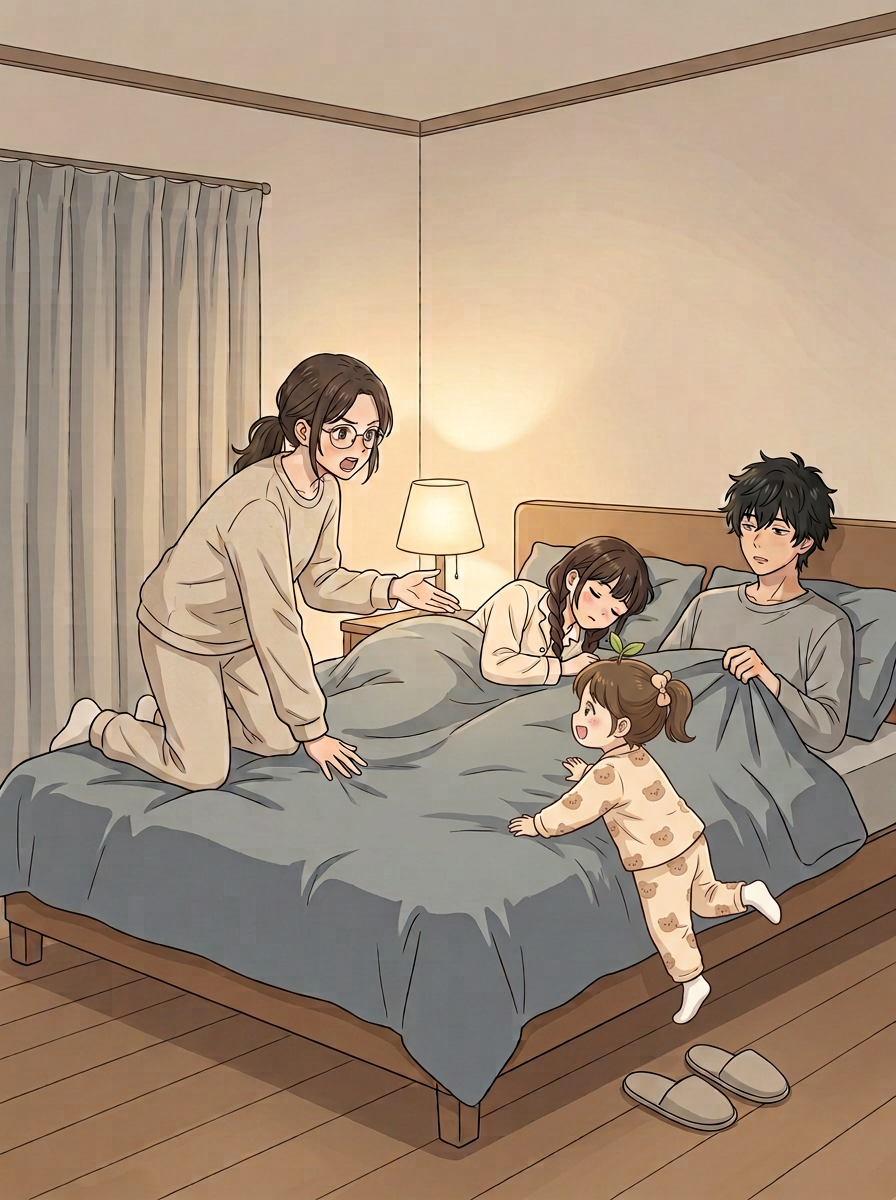
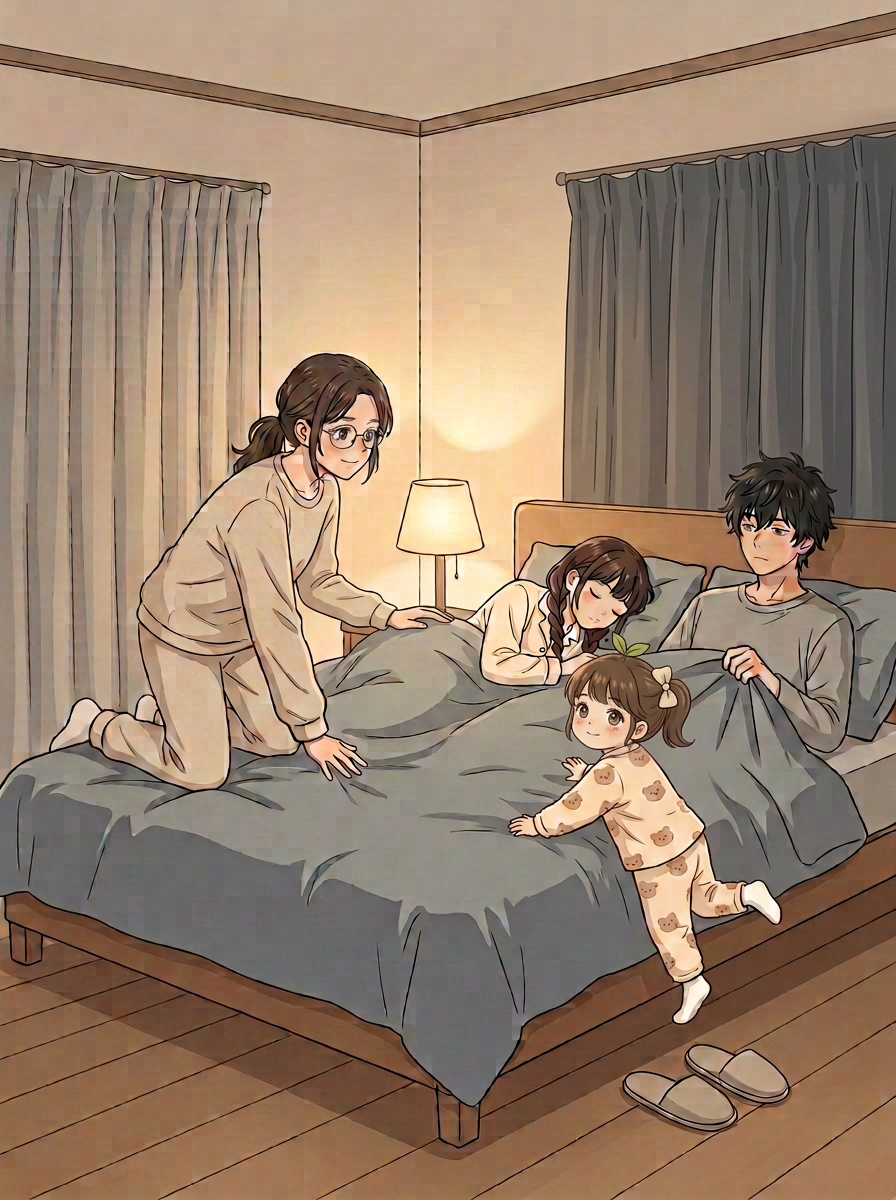
返修两张源画：第四话p9床被去腿形轮廓、第三话p11小满脸按人设重画且姐姐温和

diff --git a/scripts/verify_chapter04_pdf.py b/scripts/verify_chapter04_pdf.py
@@ -11,6 +11,7 @@
 用法：.venv/bin/python scripts/verify_chapter04_pdf.py
 """
 from pathlib import Path
+import tempfile
 import zipfile
 
 import numpy as np
@@ -68,7 +69,9 @@ def check_preview():
             filters.add(doc.xref_get_key(info[0], 'Filter')[1])
     assert filters == {'/DCTDecode'}, f'轻量预览过滤器异常: {filters}'
     pix = doc[4].get_pixmap(dpi=150, alpha=False)
-    Image.frombytes('RGB', (pix.width, pix.height), pix.samples).save('/tmp/rev7/ch4-light-preview-page04.png')
+    preview_dir = Path(tempfile.gettempdir()) / 'shi-pin-zhizuo-preview'
+    preview_dir.mkdir(parents=True, exist_ok=True)
+    Image.frombytes('RGB', (pix.width, pix.height), pix.samples).save(preview_dir / 'ch4-light-preview-page04.png')
     doc.close()
     print(f'[OK] {PREVIEW.name}: {N}页, 691.2x921.6pt, DCTDecode(JPEG q=88), '
           f'{PREVIEW.stat().st_size/1024/1024:.2f}MB, 已导出第4页供放大目检')

diff --git a/scripts/verify_chapter03_pdf.py b/scripts/verify_chapter03_pdf.py
@@ -10,6 +10,7 @@
 """
 from pathlib import Path
 import hashlib
+import tempfile
 import zipfile
 
 import numpy as np
@@ -69,7 +70,9 @@ def check_preview():
     assert filters == {'/DCTDecode'}, f'轻量预览过滤器异常: {filters}'
     # 渲染回读一页供人眼放大复检（JPEG 有损，只查可读性与页数，不查像素相等）
     pix = doc[4].get_pixmap(dpi=150, alpha=False)
-    Image.frombytes('RGB', (pix.width, pix.height), pix.samples).save('/tmp/rev7/light-preview-page04.png')
+    preview_dir = Path(tempfile.gettempdir()) / 'shi-pin-zhizuo-preview'
+    preview_dir.mkdir(parents=True, exist_ok=True)
+    Image.frombytes('RGB', (pix.width, pix.height), pix.samples).save(preview_dir / 'light-preview-page04.png')
     doc.close()
     print(f'[OK] {PREVIEW.name}: 12页, 691.2x921.6pt, DCTDecode(JPEG q=88), '
           f'{PREVIEW.stat().st_size/1024/1024:.2f}MB, 已导出第4页供放大目检')

diff --git a/docs/错误复盘与优化方案长期记录.md b/docs/错误复盘与优化方案长期记录.md
@@ -776,3 +776,15 @@ PDF 各 12 页、150dpi `max_pixel_diff=0`；轻量 2.11MB；ZIP 12 张字节等
 - 未做：没有重绘、没有改台词、没有重跑 build／export／verify／PDF／ZIP。
   用户本轮要求「先告诉我你能看到吗」＋「加进错误集」；返修范围
   （第四话 p9 整张重生、第三话 p11 是否重绘并影响已定稿 v7.3）须用户裁定后再动。
+
+
+### 返修闭环（2026-11-09，用户裁定后执行）
+
+- 用户裁定：「重绘第四话最后一页的床被」「让第三话最后一页的小满的脸符合人设图」「姐姐的脸应该更温和一点，不应该是斥责的表情」。
+- 两页均**整张带锚点重生成**，没有局部涂改／色块覆盖。第四话 p9 传 `shot-01.png` 画风锚点、p7/p8 睡前页、小满官方人设、重绘后的 `shot-11.png`；prompt 第一批就写死「被子是单一连续平整体积、禁任何腿／膝／脚状闭合阴影、禁独立肢体状鼓包」。第三话 p11 传 `shot-01.png`＋小满／姐姐官方人设与脸部放大＋姐姐家居服＋p10，用已验收版作构图锁，禁止把旧页的敷衍脸与斥责表情带进新图。
+- 第三话 p11 共三次整张重生：v1 修好姐姐但小满仍是单眼方嘴 → 弃；v2 小满改成 3/4 正脸但整体构图漂移（人物左移、留白翻倍，会让「小叔，我也要！」的长尾指错人）→ 弃；v3 以 v1 构图为锁、只重画两张脸，最终采用。**不能在「脸修好了」时忽略气泡归属与构图连续性**。
+- 实图放大复核：第四话 p9 按用户截图同一区域并排，旧图那条闭合「腿形」弧影消失，下半部只剩少量开放式宽褶皱；p6/p7/p8/p9 四页被窝并排回归，无其他腿形；第三话 p11 小满为 3/4 正脸、双眼大圆眼＋细弯眉＋小抿嘴，姐姐圆框眼镜＋平缓眉＋闭嘴微笑，无张口斥责；p9/p10/p11 末三页并排无其他敷衍脸；两页手／袖管各 2、拖鞋一双、无假字，页码与三处气泡位置未动。
+- 画风：第三话新 p11 的画布脚本 stroke 代理 WARN（1.76x）与锚点并排放大后判定为夜景深灰大面积被子的明暗所致，线宽／上色／脸型／色调与锚点连续，属镜头语言差异不是系统漂移；不刷绿也不盲信数值。
+- 只改两页：build 两话各一次（第三话 16.207s、第四话 18.895s，各只新编码 2 页）、export 两话各一次（1.941s／1.603s）、verify 两话各一次（6.227s／5.143s，四项全过）、气泡几何 PASS 71、画布预筛四目录 0 FAIL（既有 canvas-review 登记降为 note）、py_compile OK、两话轻量预览第4页 JPEG q=88 回读放大可读。
+- 工程修复：`verify_chapter03_pdf.py`／`verify_chapter04_pdf.py` 原把回读图硬写 `/tmp/rev7/`（会话遗留目录，环境重置后不存在），导致第三话 verify 首次中断；改为 `tempfile.gettempdir()` 下自建目录后重跑通过。**校验脚本不得依赖会话临时目录**。另：误把 `--help` 当参数传给无 argparse 的 `audit_page_canvas.py` 会跑默认目录并产出无效结论，本轮该次输出不计入验收，正确目录另跑一次并一次收全 stdout。
+- 已知非缺陷变化：第三话 p11 新图右上多了一片与左侧呼应的窗帘，右上气泡仍白底清晰、不压脸；床、四人位置、拖鞋、三句台词与页码 11 / 11 均未动。

diff --git a/docs/第三话_正式分镜与台词.md b/docs/第三话_正式分镜与台词.md
@@ -111,6 +111,7 @@
 ## 制作与验收状态（2026-11-08 第三次返修 v7）
 
 - 构建唯一来源：`art/chapter-03-v7/`（封面＋shot-01～shot-11）。v7.0 生图6张：shot-08／04／07／05／06／10；其余沿用已验收原画。**v7.1 追加**：shot-08 整张弃用重新生成（多余袖管），shot-07／10 重新生图改为哥哥右手提袋，shot-05／06 保持落地。详见 `docs/第三话_v7.1_纠错与新增铁律.md`。
+- **2026-11-09 追加**：`shot-11.png` 整张重生为 v7.3 结尾页返修版（小满脸按 `art/character-v3/niece.png` 官方人设重画、姐姐改温和微笑；构图、三句台词、气泡与页码不变），详见长期记录第廿三节。
 - 阅读版1440×1920、竖屏版1440×2146、两份**12页**无损PDF已重建；另新增 `第三话_逐页看图.md`（GitHub网页直接看12张图）、`第三话_12页PNG图片版.zip`（一次下载解压即得12张PNG）、`第三话_轻量在线预览.pdf`（12页720×960、JPEG q=88、2.15MB，明确非定稿）。两份约37MB无损PDF保留作印刷／归档备份。
 - 气泡几何审计 **PASS 55**；画面级预筛 `audit_page_canvas.py` 对原画与成品均 **0 FAIL / 12**，v7 两处场景结构误报已独立放大复核并登记 `canvas-review.json`（重绘后的 shot-10 不再触发旧误报，故台账只保留真实存在的2条）。
 - `scripts/verify_chapter03_pdf.py`：两份PDF各12页、逐页150dpi对PNG **max_pixel_diff=0**、全 `/FlateDecode`；轻量预览12页 `/DCTDecode`、2.15MB；ZIP 12张逐张字节等同母版；看图页12个相对链接全部有效。
